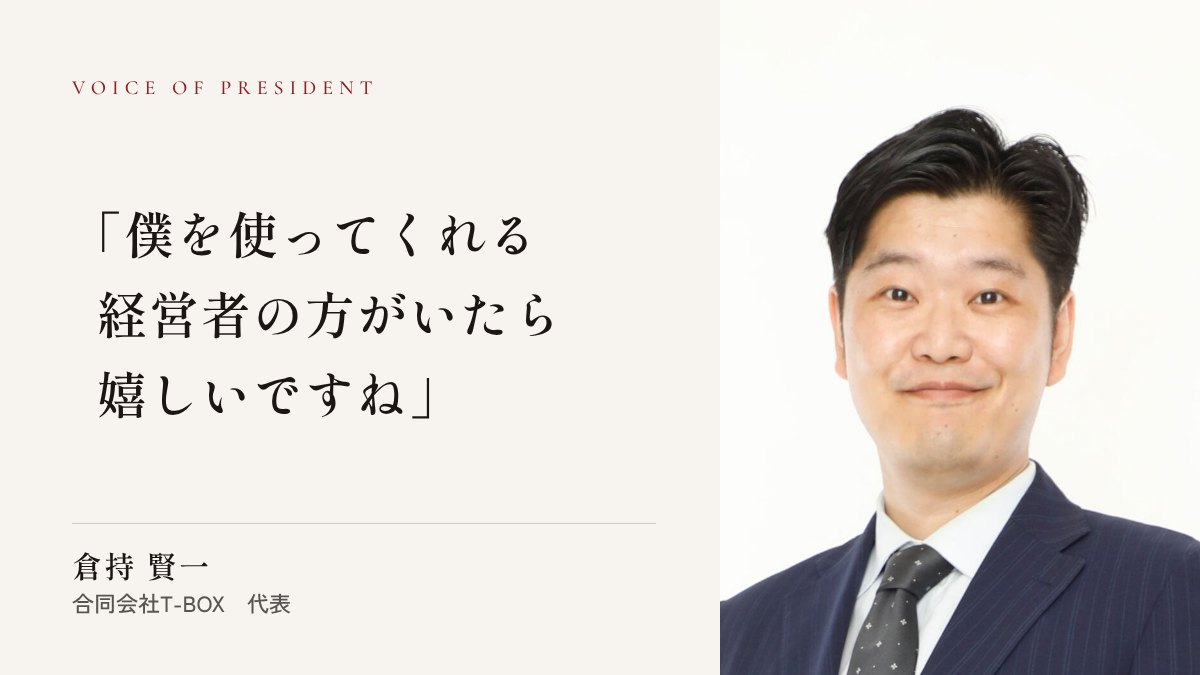
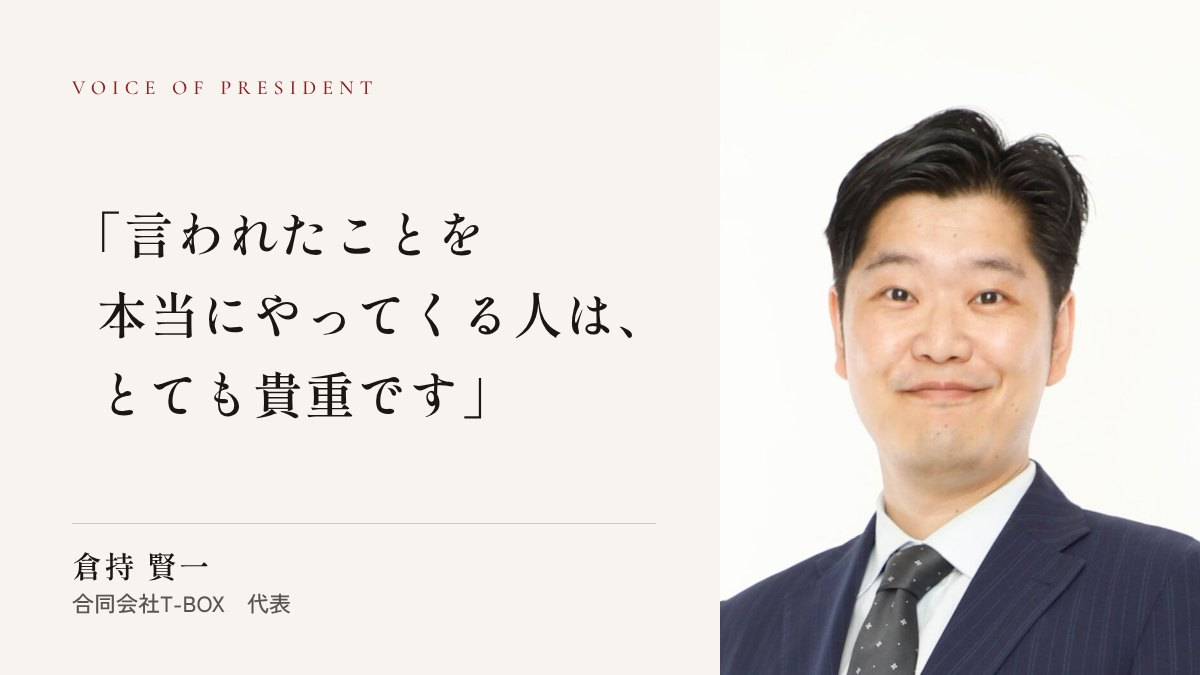
品評の直し：言葉の選び直し・強調引用の位置・外部送信の公表ページ・了承の無い記事は本番で見出し画像と強調引用を出さない・GA4 の広告向け機能を切る・姉妹サイトの計測値をIDに
Claude-Session: https://claude.ai/code/session_01En7pnYxYsr9NFG5tZ7WirZ

Changed region(s): [[0.0617, 0.4356, 0.5242, 0.4978], [0.0925, 0.3111, 0.4625, 0.4044], [0.0617, 0.5289, 0.4008, 0.6222]]

diff --git a/assets/article.css b/assets/article.css
@@ -92,11 +92,14 @@ main{max-width:1240px;margin:0 auto;background:#fff}
 .body-end{display:block;height:1px}
 
 /* 本文の組版（10/29）：行の詰まりと引用の重さを整え、強調引用を足す */
-.body p{line-break:strict;overflow-wrap:anywhere;text-align:justify;hanging-punctuation:allow-end}
+.body p{line-break:strict;overflow-wrap:anywhere;hanging-punctuation:allow-end}
+article.body>p{text-align:justify}
+.pv .body a{overflow-wrap:anywhere;font-size:13px}
 .body .q{border-top:0;border-left:2px solid var(--gold);padding:2px 0 2px 18px;margin:6px 0 34px}
-.body .q p{font-weight:600;font-size:17.5px;line-height:2;text-indent:-.5em;color:var(--ink);text-align:left}
-.pull{margin:48px 0 52px;padding:34px 4px 30px;border-top:1px solid var(--red);border-bottom:1px solid var(--line);text-align:left}
+.body .q p{font-weight:600;font-size:17.5px;line-height:2;text-indent:-.5em;color:rgba(27,22,20,.9);text-align:left}
+.pull{margin:60px 0 72px;padding:34px 4px 30px;border-top:1px solid var(--red);border-bottom:1px solid var(--line);text-align:left}
 .pull p{margin:0 0 18px!important;font-family:var(--min);font-weight:600;font-size:22px!important;line-height:1.8!important;letter-spacing:.06em!important;color:var(--ink)!important;text-align:left!important}
 .pull p{padding-left:.55em;text-indent:-.55em}.pull p::before{content:"「"}.pull p::after{content:"」"}
 .pull span{display:block;font-size:13px;letter-spacing:.12em;color:var(--sub)}.pull span::before{content:"— "}
 @media (min-width:768px){.body p{font-size:17px}.body .q p{font-size:18.5px}.pull p{font-size:27px!important}.pull{padding:40px 8px 34px}}
+.ft a{color:inherit;text-decoration:underline;text-underline-offset:3px}

diff --git a/assets/article.js b/assets/article.js
@@ -13,10 +13,10 @@
 
   // シェア
   document.querySelectorAll('[data-copy]').forEach(b => b.addEventListener('click', async () => {
-    track('share_click', { placement: 'share', destination_media: 'copy' });
+    track('share_click', { placement: 'share', share_via: 'copy' });
     try { await navigator.clipboard.writeText(b.dataset.copy); b.textContent = 'コピーしました'; } catch (e) { prompt('URL', b.dataset.copy); }
   }));
-  onClick('.share a', a => track('share_click', { placement: 'share', destination_media: a.textContent.trim().toLowerCase() }));
+  onClick('.share a', a => track('share_click', { placement: 'share', share_via: a.textContent.trim().toLowerCase() }));
 
   // サイト内の回遊（関連記事・次の記事）
   onClick('.rel a', a => track('related_article_click', { placement: 'related', destination_media: base.media_id, link_url: a.getAttribute('href') }));

diff --git a/article.html b/article.html
@@ -44,7 +44,7 @@
 
     <footer style="padding:34px 56px; background:#8E1D22; display:flex; justify-content:space-between; align-items:center; font-size:11.5px; letter-spacing:.16em; color:rgba(255,248,243,.72);">
       <a href="index.html" style="font-family:'Cormorant Garamond',serif; letter-spacing:.3em; font-size:13px; color:#FFF8F3;">VOICE OF PRESIDENT</a>
-      <span style="display:flex; gap:26px; white-space:nowrap;"><span>プライバシーポリシー</span><span>© 2026</span></span>
+      <span style="display:flex; gap:26px; white-space:nowrap;"><a href="/privacy.html" style="color:inherit;">プライバシーと外部送信</a><span>© 2026</span></span>
     </footer>
 
   </div>

diff --git a/index.html b/index.html
@@ -394,7 +394,7 @@
 
       <footer style="padding:34px 56px; background:#8E1D22; display:flex; justify-content:space-between; align-items:center; font-size:11.5px; letter-spacing:.16em; color:rgba(255,248,243,.72);">
         <span style="font-family:'Cormorant Garamond',serif; letter-spacing:.3em; font-size:13px; color:#FFF8F3;">VOICE OF PRESIDENT</span>
-        <span style="display:flex; gap:26px;"><span>プライバシーポリシー</span><span>© 2026</span></span>
+        <span style="display:flex; gap:26px;"><a href="/privacy.html" style="color:inherit;">プライバシーと外部送信</a><span>© 2026</span></span>
       </footer>
     </div>
 
